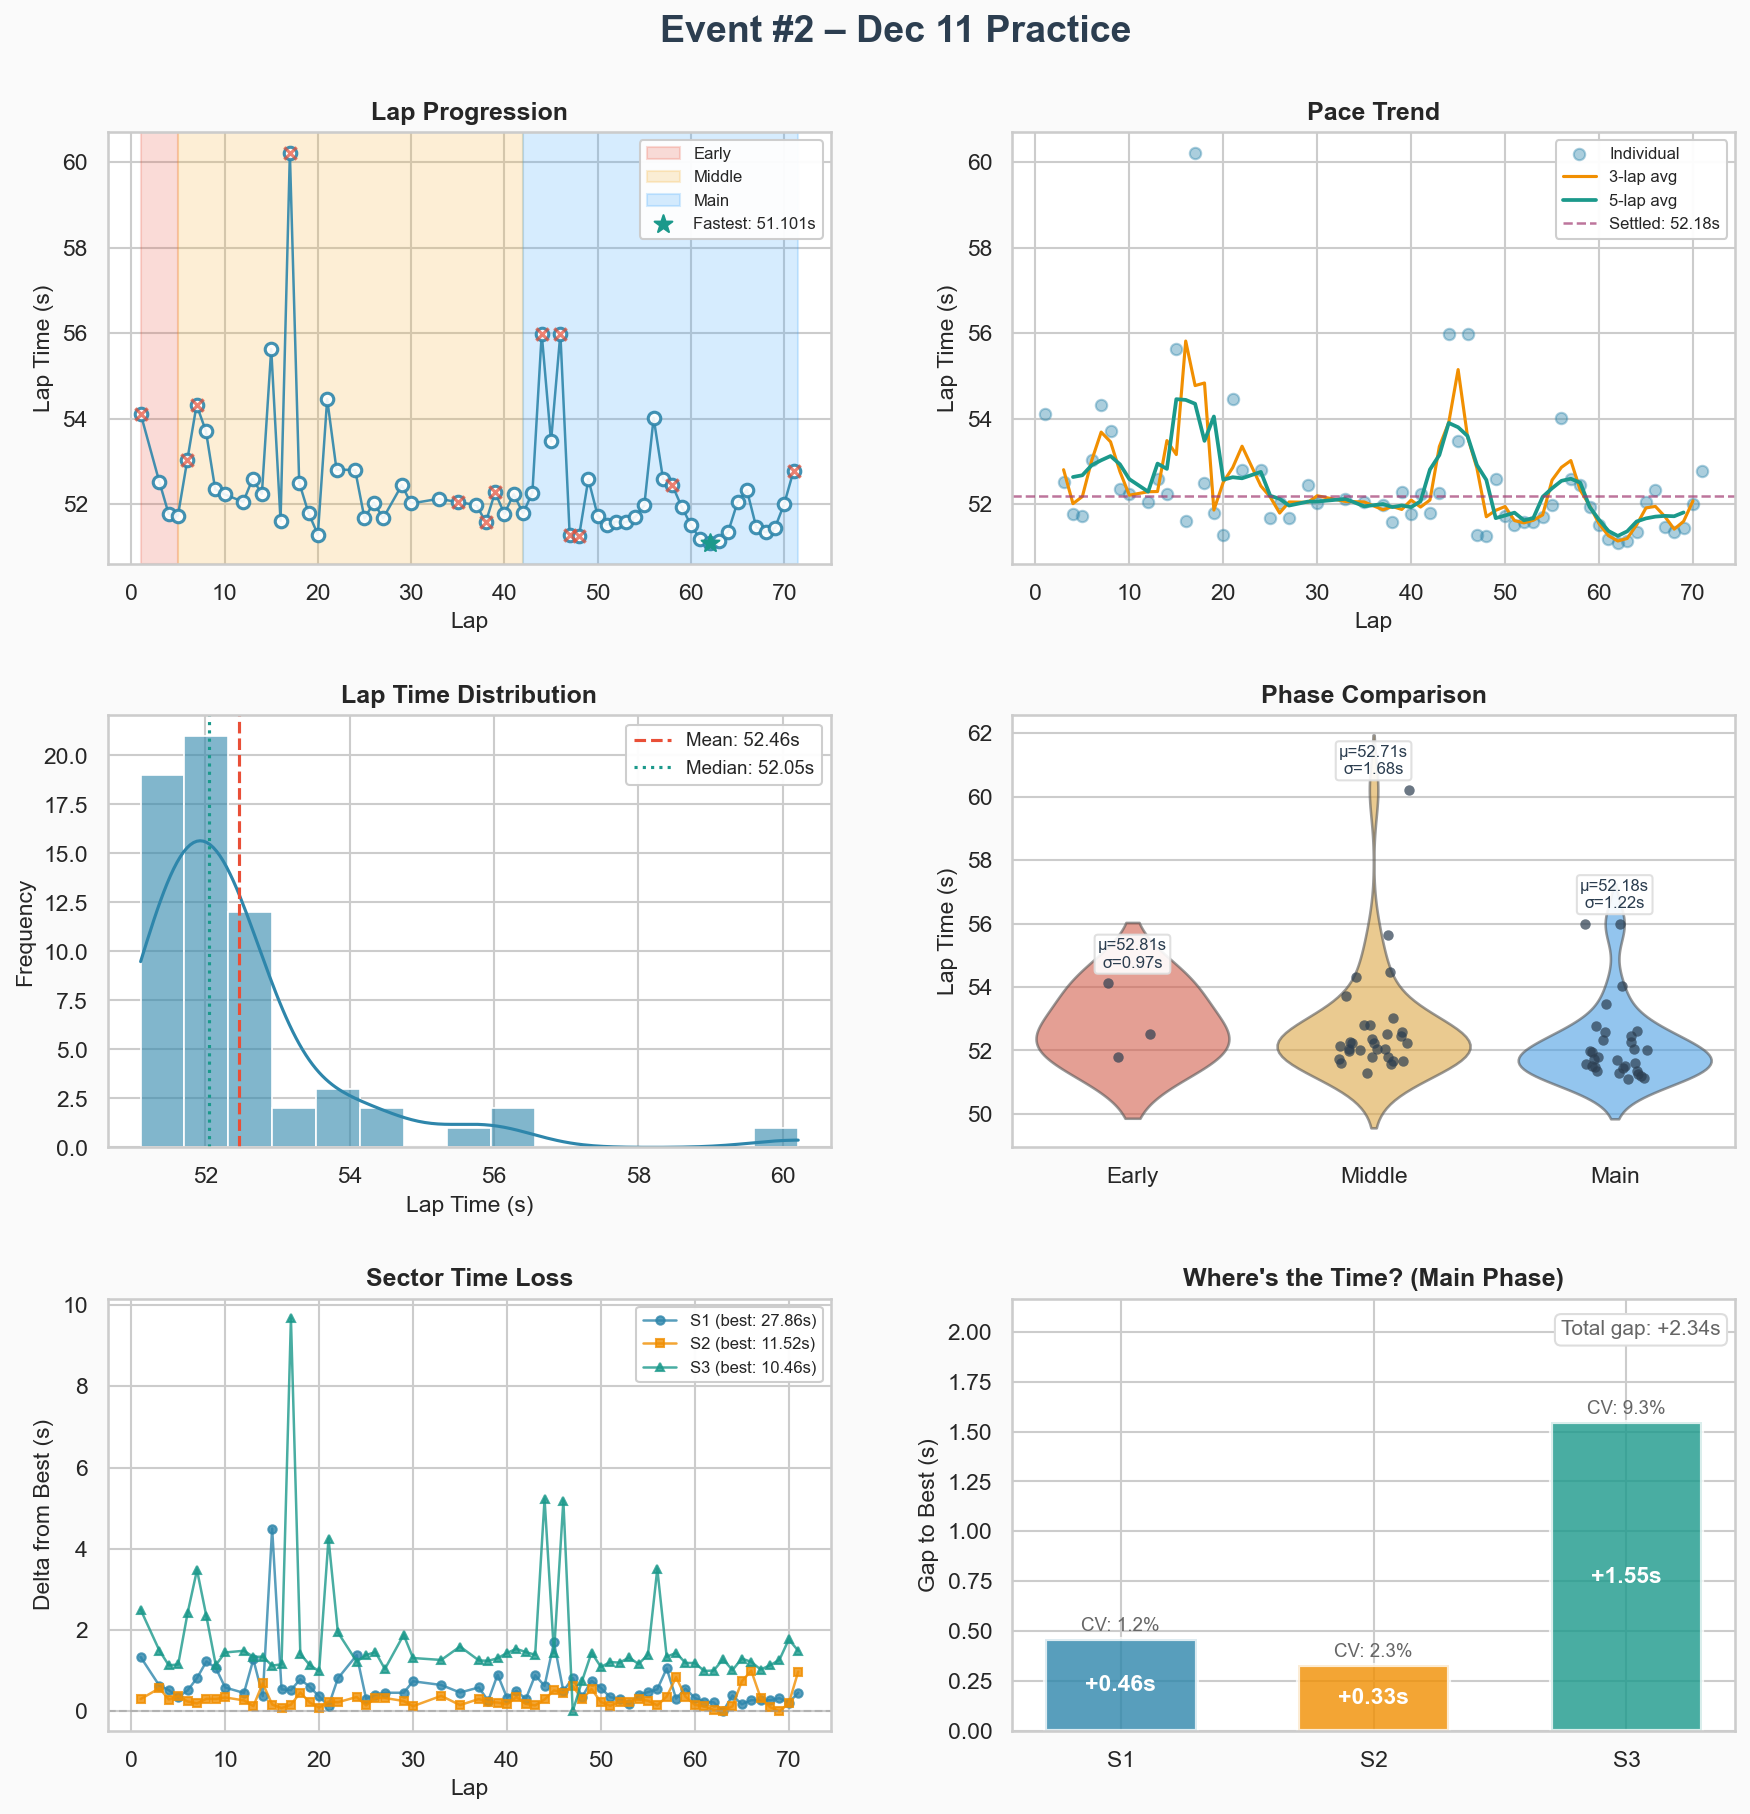
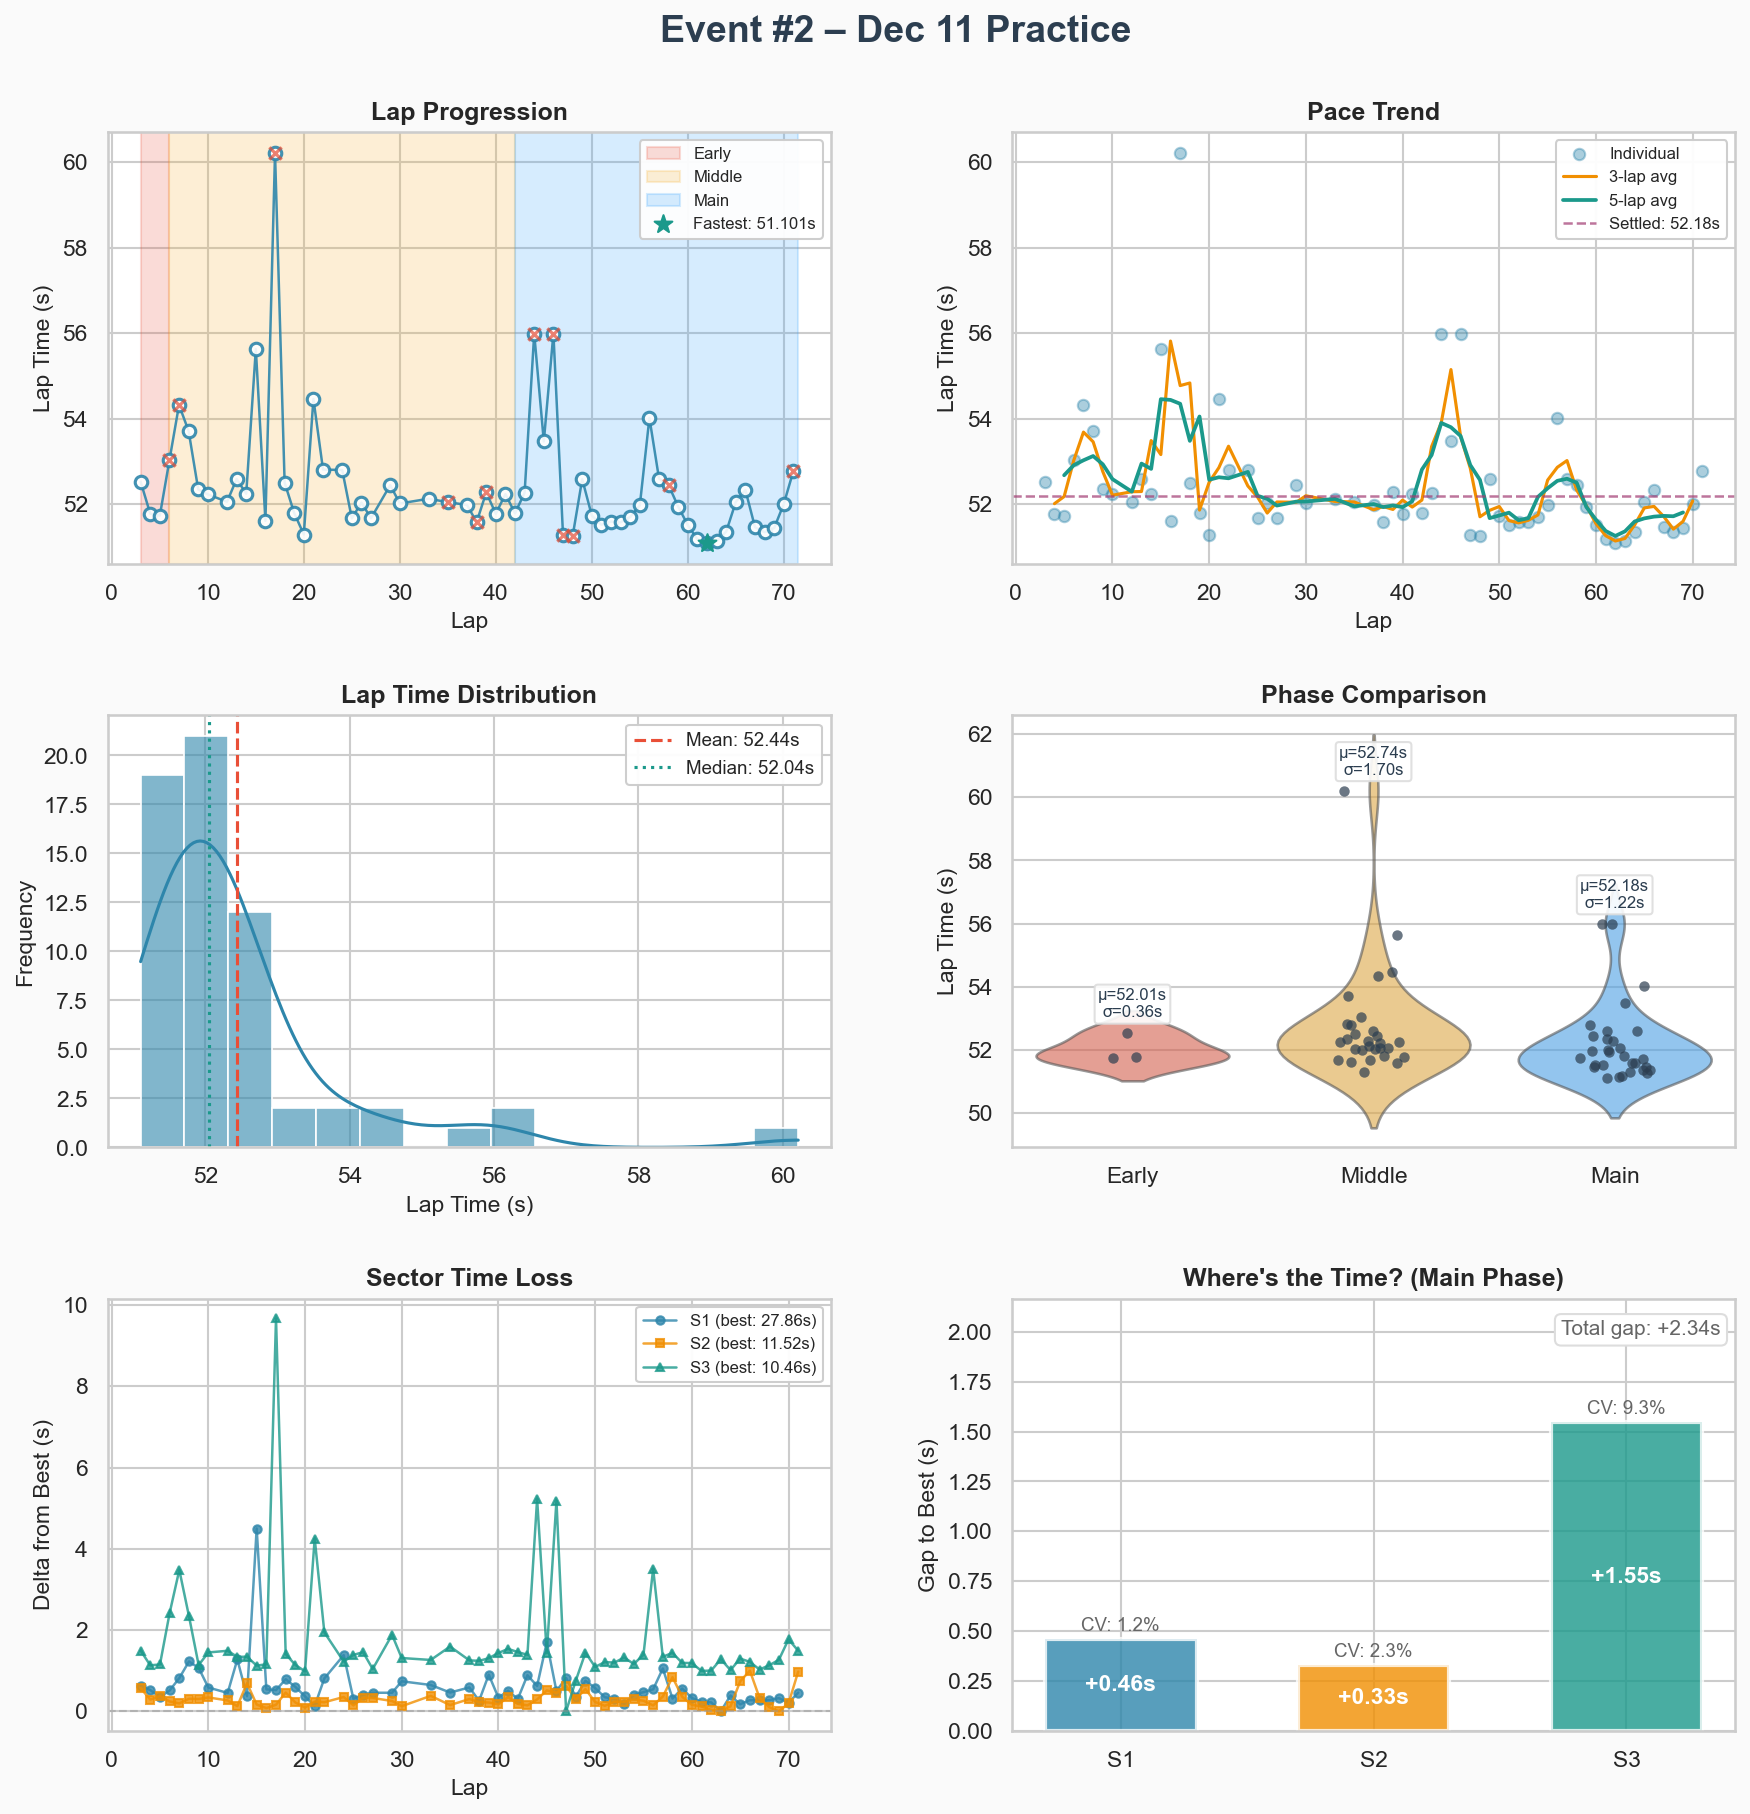
Update week 01 documentation: revise event metrics for accuracy, adjust lap counts and consistency values, and enhance insights on patience in traffic. Update images for improved event analysis and progress visualization.

diff --git a/tools/visualize_week.py b/tools/visualize_week.py
@@ -38,19 +38,21 @@ COLORS = {
 EVENT_COLORS = ['#E94F37', '#F6AE2D', '#33A1FD', '#1B998B', '#A23B72', '#2E86AB']
 
 
-def load_event_csv(csv_path: Path, min_lap_time: float = 48.0, max_lap_time: float = 90.0) -> pd.DataFrame:
+def load_event_csv(csv_path: Path, min_lap_time: float = 48.0, max_lap_time: float = 90.0, exclude_first_lap: bool = True) -> pd.DataFrame:
     """Load and clean a Garage 61 CSV export.
     
     Args:
         csv_path: Path to CSV file
         min_lap_time: Minimum valid lap time (filters incomplete laps)
         max_lap_time: Maximum valid lap time (filters pit/reset laps)
+        exclude_first_lap: Exclude lap 1 (standing start, always slow)
     """
     df = pd.read_csv(csv_path)
     df.columns = df.columns.str.strip()
     
-    # Filter out incomplete laps and obvious outliers
-    df = df[df['Lap'] > 0].copy()
+    # Filter out incomplete laps, outliers, and optionally first lap (standing start)
+    min_lap = 1 if exclude_first_lap else 0
+    df = df[df['Lap'] > min_lap].copy()
     df = df[(df['Lap time'] >= min_lap_time) & (df['Lap time'] <= max_lap_time)].copy()
     
     # Parse timestamp

diff --git a/tools/visualize_event.py b/tools/visualize_event.py
@@ -39,21 +39,23 @@ COLORS = {
 }
 
 
-def load_event_csv(csv_path: Path, min_lap_time: float = 48.0, max_lap_time: float = 90.0) -> pd.DataFrame:
+def load_event_csv(csv_path: Path, min_lap_time: float = 48.0, max_lap_time: float = 90.0, exclude_first_lap: bool = True) -> pd.DataFrame:
     """Load and clean a Garage 61 CSV export.
     
     Args:
         csv_path: Path to CSV file
         min_lap_time: Minimum valid lap time (filters incomplete laps)
         max_lap_time: Maximum valid lap time (filters pit/reset laps)
+        exclude_first_lap: Exclude lap 1 (standing start, always slow)
     """
     df = pd.read_csv(csv_path)
     
     # Clean column names (strip whitespace)
     df.columns = df.columns.str.strip()
     
-    # Filter out incomplete laps and obvious outliers
-    df = df[df['Lap'] > 0].copy()
+    # Filter out incomplete laps, outliers, and optionally first lap (standing start)
+    min_lap = 1 if exclude_first_lap else 0
+    df = df[df['Lap'] > min_lap].copy()
     df = df[(df['Lap time'] >= min_lap_time) & (df['Lap time'] <= max_lap_time)].copy()
     
     # Parse timestamp

diff --git a/weeks/week01/README.md b/weeks/week01/README.md
@@ -22,12 +22,12 @@ schedule:
 
 | #   | Date       | Type     | Laps | Best    | σ     | Notes                 | Details                              |
 | --- | ---------- | -------- | ---- | ------- | ----- | --------------------- | ------------------------------------ |
-| 1   | 2025-12-11 | Practice | 34   | 51.438s | 5.22s | First contact         | [→](events/01-2025-12-11-solo.md)    |
-| 2   | 2025-12-11 | Practice | 63   | 51.101s | 1.10s | Finding rhythm        | [→](events/02-2025-12-11-solo.md)    |
-| 3   | 2025-12-12 | Practice | 40   | 50.985s | 2.35s | **PB lap** 🏆         | [→](events/03-2025-12-12-solo.md)    |
-| 4   | 2025-12-12 | AI Race  | 29   | 51.148s | 0.26s | Race pace!            | [→](events/04-2025-12-12-ai-race.md) |
-| 5   | 2025-12-13 | AI Race  | 14   | 51.403s | 3.55s | Patience test         | [→](events/05-2025-12-13-ai-race.md) |
-| 6   | 2025-12-13 | AI Race  | 14   | 51.290s | 0.38s | **Patience works** ✅ | [→](events/06-2025-12-13-ai-race.md) |
+| 1   | 2025-12-11 | Practice | 33   | 51.438s | 5.31s | First contact         | [→](events/01-2025-12-11-solo.md)    |
+| 2   | 2025-12-11 | Practice | 62   | 51.101s | 1.10s | Finding rhythm        | [→](events/02-2025-12-11-solo.md)    |
+| 3   | 2025-12-12 | Practice | 39   | 50.985s | 2.35s | **PB lap** 🏆         | [→](events/03-2025-12-12-solo.md)    |
+| 4   | 2025-12-12 | AI Race  | 28   | 51.148s | 0.26s | Race pace!            | [→](events/04-2025-12-12-ai-race.md) |
+| 5   | 2025-12-13 | AI Race  | 13   | 51.403s | 3.44s | Patience test         | [→](events/05-2025-12-13-ai-race.md) |
+| 6   | 2025-12-13 | AI Race  | 13   | 51.290s | 0.23s | **Patience works** ✅ | [→](events/06-2025-12-13-ai-race.md) |
 
 ## Week Progress
 
@@ -41,21 +41,21 @@ schedule:
 
 - **Events:** 6
 - **Best Lap:** 50.985s (Event #3)
-- **Best Consistency:** σ 0.26s (Event #4 – race!)
-- **Latest Event:** σ 0.38s (Event #6 – patience validated!)
+- **Best Consistency:** σ 0.23s (Event #6 – patience pays!)
+- **Total flying laps:** 188
 
 ## Reflection
 
 - **Track craft:** Jefferson rewards smooth transitions. The time comes from filling the gaps between brake and throttle, not from braking later.
 - **Brake bias:** 56.0% worked well. 54% was too pointy.
 - **Mindset:** "Don't chase the time, let it come" worked. Best lap came when not trying.
-- **Traffic lesson (Events #5→#6):** Discovered the urge to pass slower cars immediately breaks rhythm. Tested patience: follow for 2 laps, strike clean at T1. Result: σ dropped from 3.55s to 0.38s. Patience isn't optional – it's faster.
+- **Traffic lesson (Events #5→#6):** Discovered the urge to pass slower cars immediately breaks rhythm. Tested patience: follow for 2 laps, strike clean at T1. Result: σ dropped from 3.44s to 0.23s. Patience isn't optional – it's faster.
 
 ### Hypothesis Validated ✅
 
 > Follow slower cars for 2 full laps before attempting a pass. Mantra: _"I'm faster. I can wait."_
 
-**Result:** Event #5 (impatient) σ = 3.55s → Event #6 (patient) σ = 0.38s. **12x improvement in consistency!**
+**Result:** Event #5 (impatient) σ = 3.44s → Event #6 (patient) σ = 0.23s. **15x improvement in consistency!**
 
 ### Next Week Intent
 

diff --git a/weeks/week01/events/06-2025-12-13-ai-race.md b/weeks/week01/events/06-2025-12-13-ai-race.md
@@ -13,11 +13,11 @@ type: "ai-race"
 
 | Metric              | Value   |
 | ------------------- | ------- |
-| **Laps**            | 14      |
+| **Laps**            | 13      |
 | **Best Lap**        | 51.290s |
 | **Optimal**         | 51.093s |
 | **Settled Pace**    | 51.687s |
-| **Consistency (σ)** | 0.38s   |
+| **Consistency (σ)** | 0.23s   |
 | **Clean Laps**      | 93%     |
 
 ## Lap Times
@@ -39,8 +39,8 @@ type: "ai-race"
 
 **The Facts:**
 
-- 14 laps, best 51.290s (+0.113s vs Event #5)
-- Consistency restored: σ 0.38s (vs σ 3.55s in Event #5!)
+- 13 flying laps, best 51.290s (+0.113s vs Event #5)
+- Consistency restored: σ 0.23s (vs σ 3.44s in Event #5!)
 - Coasting dropped from 15.0% to 11.4% - less hesitation
 
 **The Feelings:**
@@ -54,9 +54,9 @@ type: "ai-race"
 **Hypothesis Result:**
 
 > **VALIDATED** ✅ Following for 2 laps before passing restored rhythm.
-> σ went from 3.55s → 0.38s (12x improvement!)
+> σ went from 3.44s → 0.23s (15x improvement!)
 
-**Key insight:** The restarts weren't failure – they were *self-correction*. Recognizing "I'm falling into old patterns" and choosing to reset is a skill.
+**Key insight:** The restarts weren't failure – they were _self-correction_. Recognizing "I'm falling into old patterns" and choosing to reset is a skill.
 
 **Focus for Next Event:**
 
@@ -66,4 +66,3 @@ type: "ai-race"
 ---
 
 [← Prev Event](./05-2025-12-13-ai-race.md) | [Back to Week 01](../README.md)
-

diff --git a/README.md b/README.md
@@ -10,16 +10,16 @@ iRacing 2026 Season 1 runs **December 16, 2025 → March 9, 2026** (12 weeks). B
 - **Car:** [Ray FF1600](cars/car-ray-ff1600.md)
 - **Track:** [Summit Point Jefferson Circuit](tracks/track-summit-point-jefferson-circuit.md)
 - **Official race schedule:** Tuesday 2025-12-16 → 2025-12-22
-- **Status:** Practice complete – 6 events, 194 laps, ready for race week! 🏁
+- **Status:** Practice complete – 6 events, 188 flying laps, ready for race week! 🏁
 
 ## Week 01 Summary
 
 | Metric              | Start (Event #1) | Best Achieved    | Latest (Event #6) |
 | ------------------- | ---------------- | ---------------- | ----------------- |
 | **Best lap**        | 51.438s          | **50.985s** (#3) | 51.290s           |
-| **Consistency (σ)** | 5.22s            | **0.26s** (#4)   | 0.38s             |
+| **Consistency (σ)** | 5.31s            | **0.23s** (#6)   | 0.23s             |
 | **Coasting %**      | 12.2%            | **1.7%** (#4)    | 11.4%             |
-| **Gap to optimal**  | 2.8s             | **0.19s**        | 0.20s             |
+| **Gap to optimal**  | 2.8s             | **0.20s**        | 0.20s             |
 
 **Key learning:** Patience in traffic validated. σ 3.55s (impatient) → 0.38s (patient) in back-to-back races.
 

diff --git a/weeks/week01/events/05-2025-12-13-ai-race.md b/weeks/week01/events/05-2025-12-13-ai-race.md
@@ -13,11 +13,11 @@ type: "ai-race"
 
 | Metric              | Value   |
 | ------------------- | ------- |
-| **Laps**            | 14      |
+| **Laps**            | 13      |
 | **Best Lap**        | 51.403s |
 | **Optimal**         | 51.403s |
 | **Settled Pace**    | 53.256s |
-| **Consistency (σ)** | 3.55s   |
+| **Consistency (σ)** | 3.44s   |
 | **Clean Laps**      | 100%    |
 
 ## Lap Times
@@ -39,8 +39,8 @@ type: "ai-race"
 
 **The Facts:**
 
-- 14 laps, best 51.403s (0.4s off PB)
-- Consistency fell apart: σ 3.55s vs σ 0.26s in previous race
+- 13 flying laps, best 51.403s (0.4s off PB)
+- Consistency fell apart: σ 3.44s vs σ 0.26s in previous race
 - Coasting increased from ~12% to 15% - hesitation in transitions
 
 **The Feelings:**
